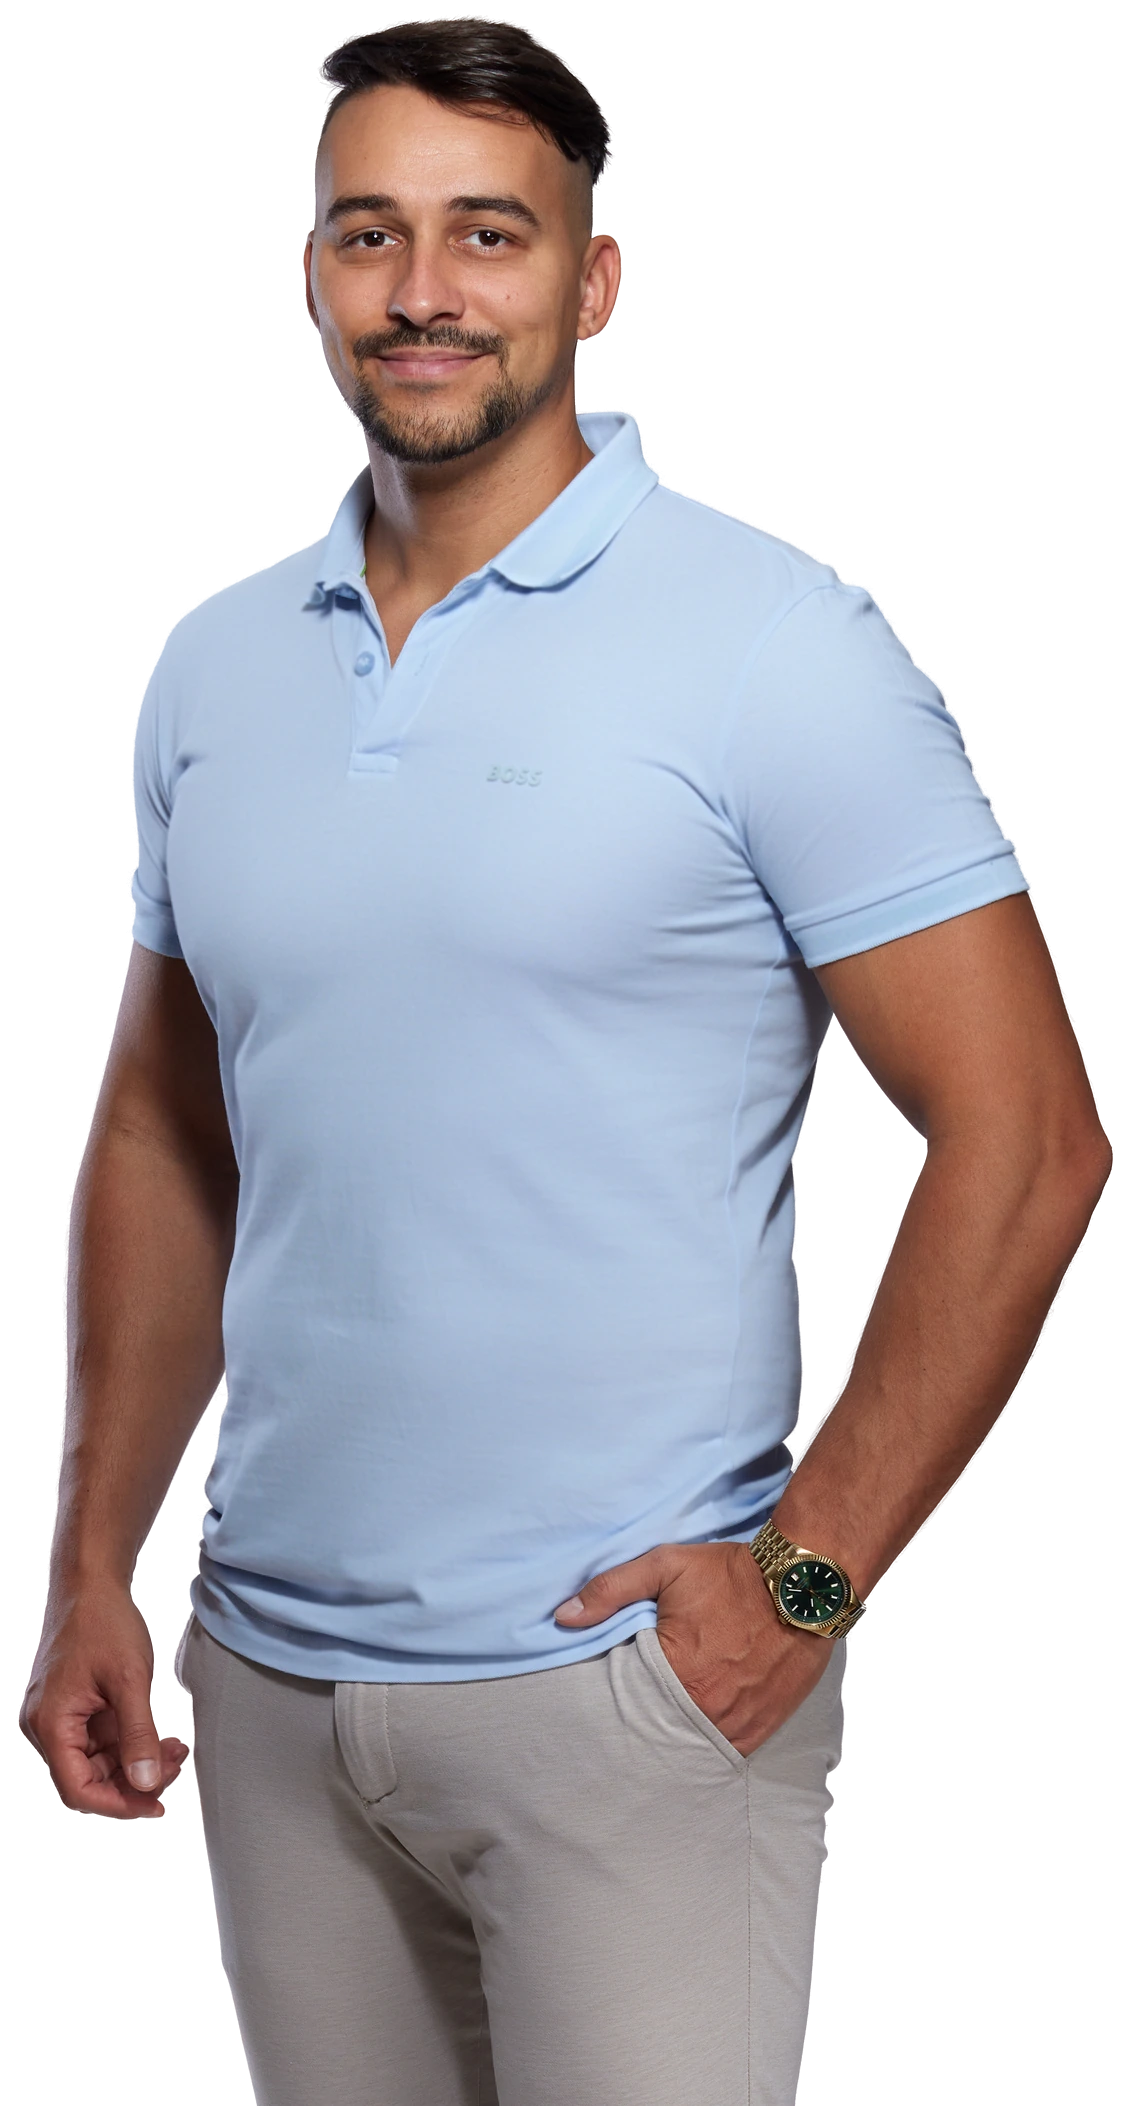
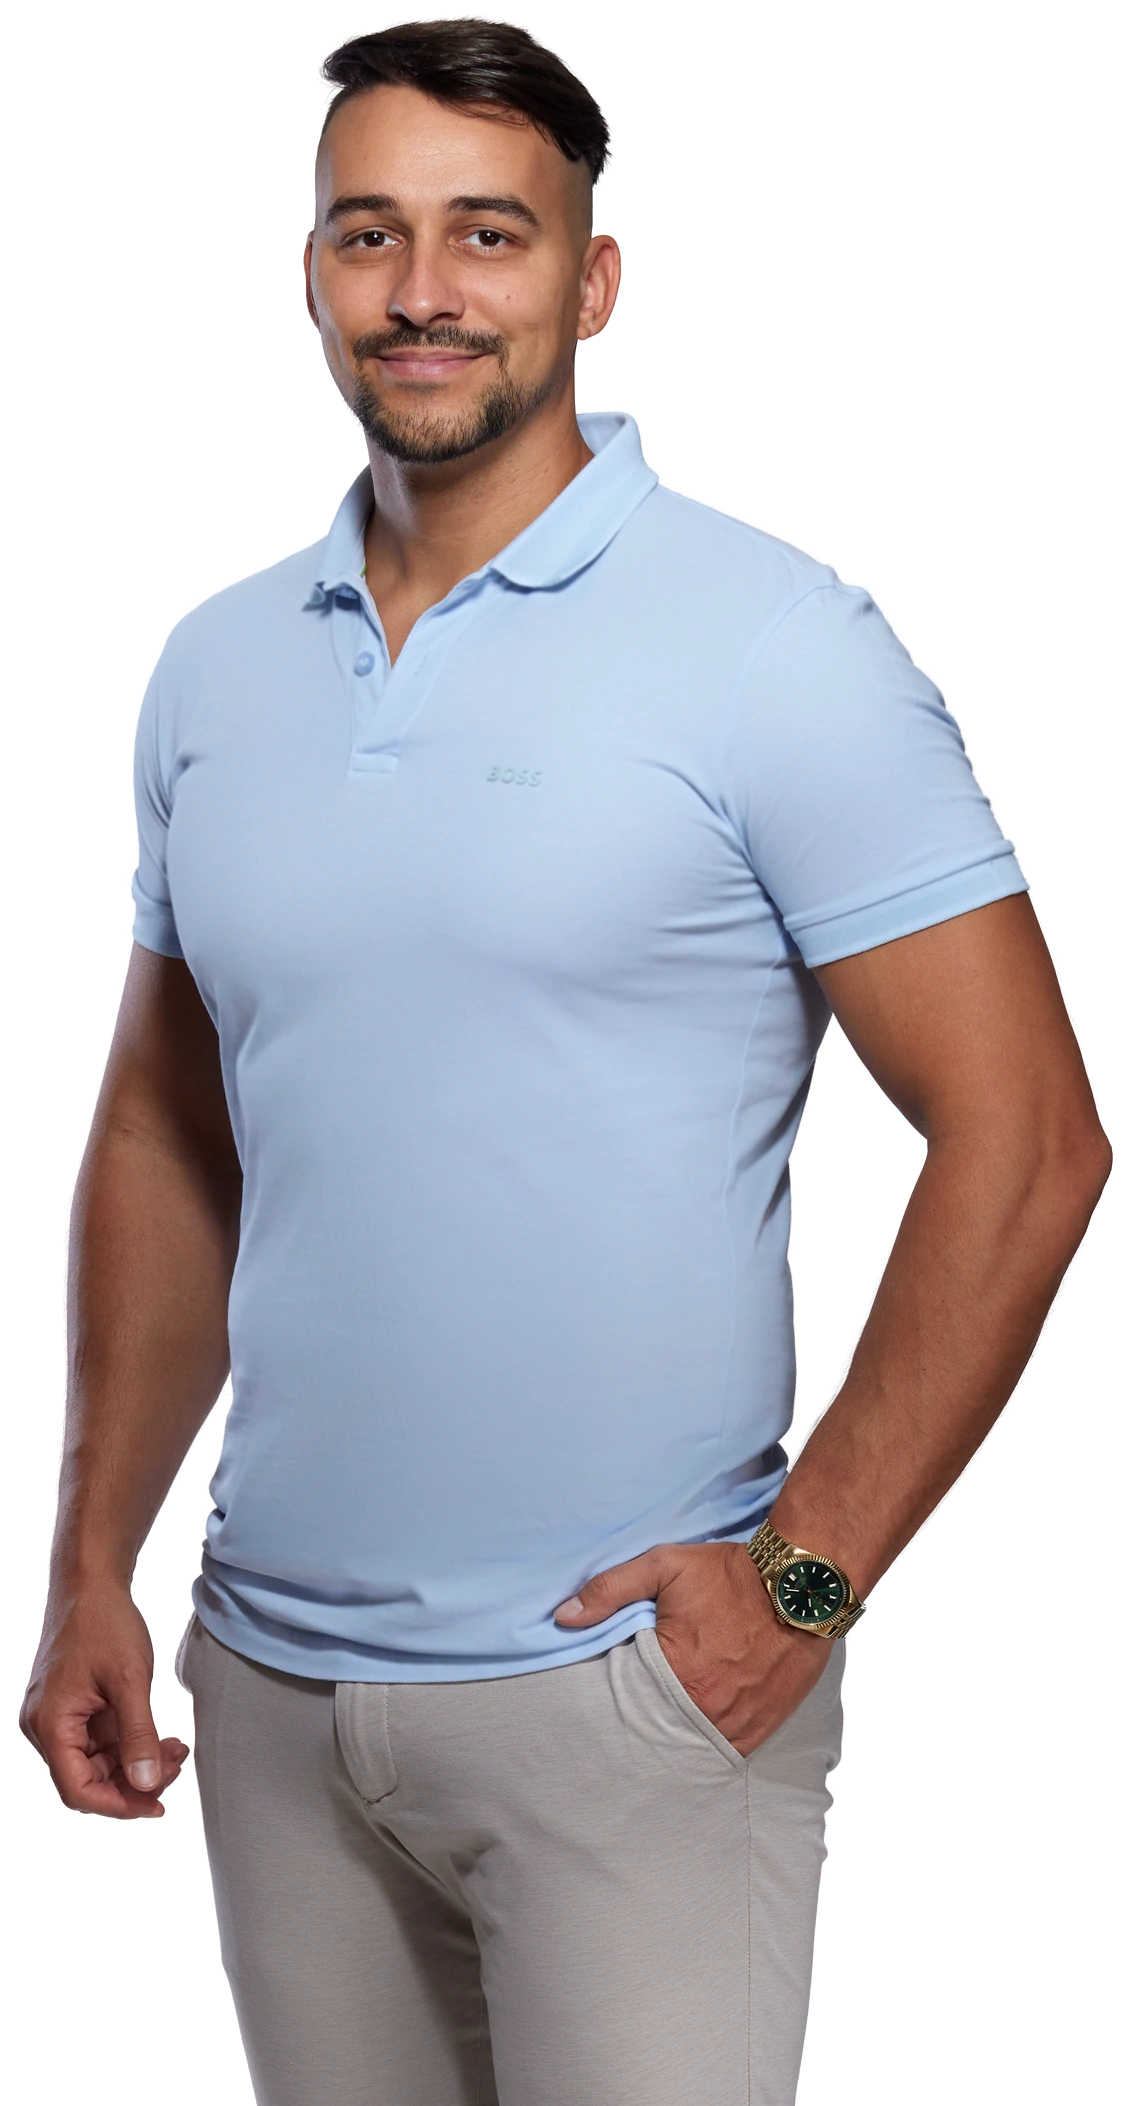
Přechod do bílé začíná pod rukama (homepage O mně, Přístup hero); retuš břicha na hero fotce Přístupu jako na homepage

Changed region(s): [[0.5546, 0.5247, 0.7702, 0.7716], [0.154, 0.4938, 0.2465, 0.7716]]

diff --git a/docs/fotky-umisteni.md b/docs/fotky-umisteni.md
@@ -44,6 +44,9 @@ opencv; originály a mezivýstupy v `fotky-nove/`):
    `FINE=1.0 LOW=16 PROTECT=0 … 330 1.0 1240,1949,95,95 1225,1980,80,85
    950,1925,90,100`) a 1e. Archiv: `4-archiv.py 330:5:80` + rozdíly jasu
    `finalni/330-1d-dL.npy` a `330-1e-dL.npy`.
+   Stejně i hero na /pristup (`…_325`, 6. 10. 2026): `1c-brisko.py 325 50 0.8 5`,
+   pak `1e-rovne-tricko.py 325 1240 1340 1290 1790 0.85` (stejné SIDE/TOP/BOT/
+   KEEP/EDGE), archiv `4-archiv.py 325:5:80` + `finalni/325-1e-dL.npy`.
 2. `2-najit-vyrez.py vyrezy.json` — kde ve fotce leží schválený výřez.
 3. `3-export-web.py vyrezy.json <složka>` — WebP výřezy z `finalni/` do
    `src/assets/photos/`.
